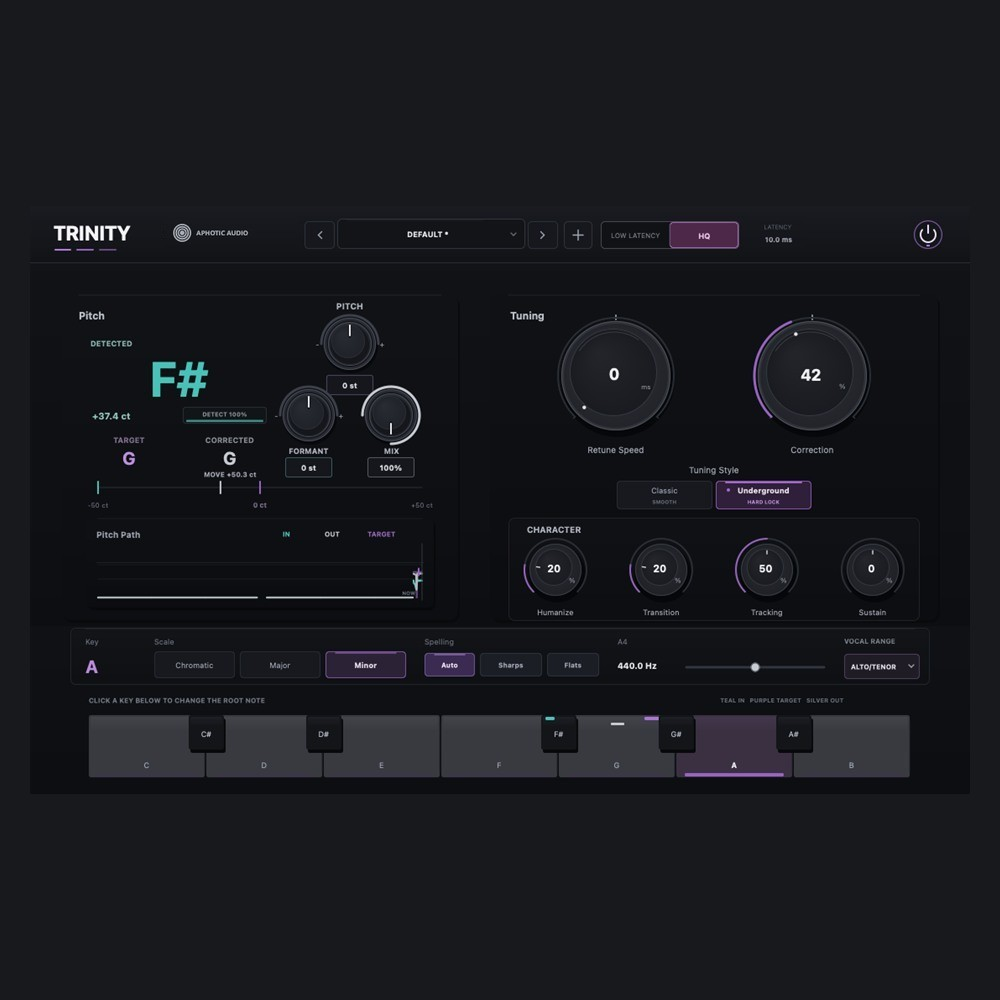
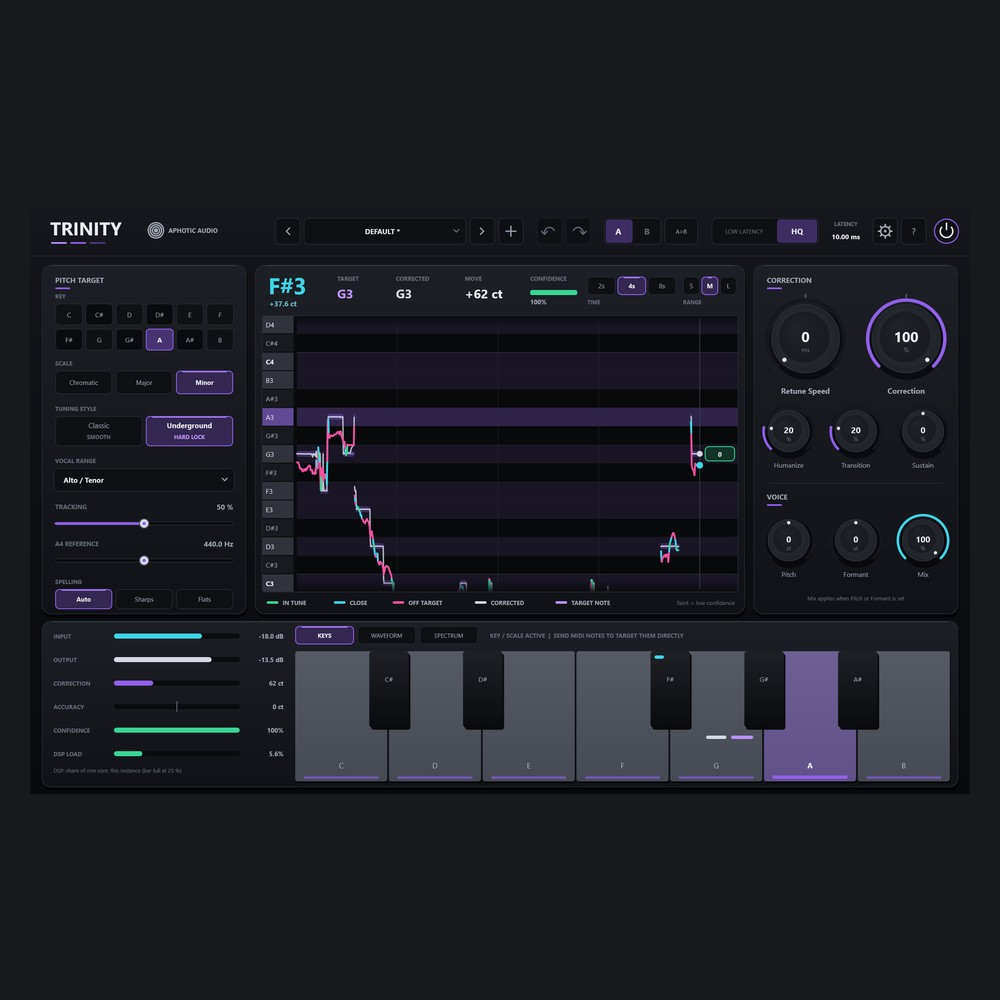
TRINITY 1.2.0 on the website: pictures of the new editor, live pitch display and MIDI target notes in the features, Low Latency spec corrected (1.5 ms at 48 kHz, was "3 ms")
Pictures are the plug-in's own 200 % editor render of a real vocal (page picture, Hub
picture, store cover and thumbnail).

diff --git a/index.html b/index.html
@@ -247,23 +247,26 @@ footer { background: var(--black); padding-block: 72px 40px; color: var(--on-dar
               <summary>Features and specs</summary>
               <div class="more-in">
                 <p>Classic follows the singer and leaves the expression in. Underground snaps every note to the key for the locked sound modern rap vocals are built on.</p>
-                <p>Set the key and scale on the keyboard, pick a vocal range, and watch the pitch path show what came in, where it's headed and what came out.</p>
+                <p>Set the key and scale, pick a vocal range, and watch the live pitch display show what you sang, what came out and the note it's aiming for. Or send MIDI notes and TRINITY tunes to the notes you play.</p>
                 <ul>
                   <li>Classic and Underground tuning styles</li>
+                  <li>Live pitch display, with waveform and spectrum views</li>
+                  <li>MIDI target notes: play the notes to tune to</li>
                   <li>Retune speed, correction, humanize, transition, tracking and sustain</li>
                   <li>Pitch, formant and mix shaping</li>
                   <li>Key, scale, A4 reference and vocal range</li>
+                  <li>Undo and redo, A/B compare and four colour themes</li>
                 </ul>
                 <dl class="specs">
-                  <dt>Latency</dt><dd>HQ 10 ms, Low Latency 3 ms</dd>
+                  <dt>Latency</dt><dd>HQ 10 ms, Low Latency 1.5 ms at 48 kHz</dd>
                   <dt>Formats</dt><dd>Windows VST3, macOS VST3 and AU</dd>
-                  <dt>Version</dt><dd data-version="trinity">1.0.8</dd>
+                  <dt>Version</dt><dd data-version="trinity">1.2.0</dd>
                   <dt>Computers</dt><dd>Up to 3 per license</dd>
                 </dl>
               </div>
             </details>
           </div>
-          <figure class="shot"><img src="img/trinity.png" width="1120" height="700" loading="lazy" alt="TRINITY with the Underground tuning style selected, the key set to A minor and the pitch path showing input, target and output"></figure>
+          <figure class="shot"><img src="img/trinity.png" width="1120" height="700" loading="lazy" alt="TRINITY with the Underground tuning style selected, the key set to A minor and the live pitch display showing the sung pitch, the corrected pitch and the target notes on a note grid"></figure>
         </li>
 
         <li class="stage" id="ironglass" aria-labelledby="ironglass-name">
